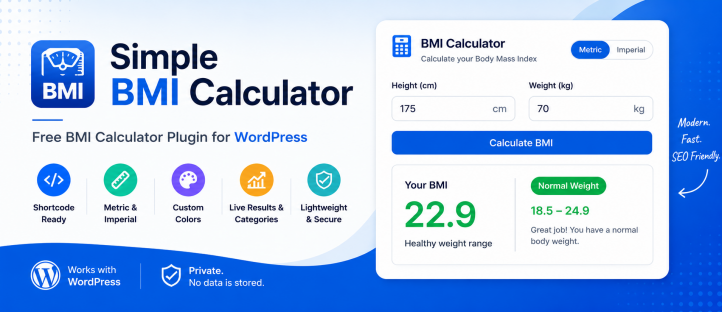
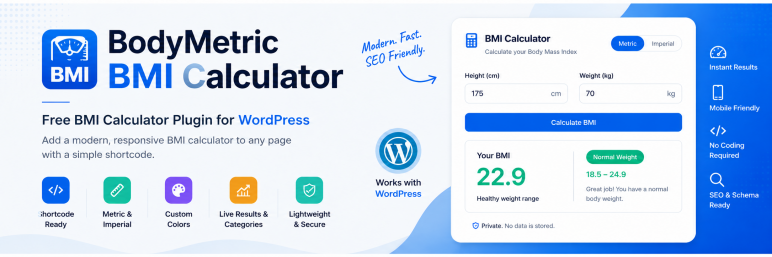
rename plugin

diff --git a/trunk/assets/js/bodymetric-bmi-calculator.js b/trunk/assets/js/bodymetric-bmi-calculator.js
@@ -1,7 +1,7 @@
 ( function () {
 	'use strict';
 
-	var config = window.sbcCalculatorData || {};
+	var config = window.bodybmcaData || {};
 	var i18n = config.i18n || {};
 
 	function parseNumber( value ) {

diff --git a/trunk/bodymetric-bmi-calculator.php b/trunk/bodymetric-bmi-calculator.php
@@ -20,33 +20,34 @@ if ( ! defined( 'ABSPATH' ) ) {
 	exit;
 }
 
-define( 'SBC_VERSION', '1.2.0' );
-define( 'SBC_PLUGIN_FILE', __FILE__ );
-define( 'SBC_PLUGIN_DIR', plugin_dir_path( __FILE__ ) );
-define( 'SBC_PLUGIN_URL', plugin_dir_url( __FILE__ ) );
+define( 'BODYBMCA_VERSION', '1.2.0' );
+define( 'BODYBMCA_PLUGIN_FILE', __FILE__ );
+define( 'BODYBMCA_PLUGIN_DIR', plugin_dir_path( __FILE__ ) );
+define( 'BODYBMCA_PLUGIN_URL', plugin_dir_url( __FILE__ ) );
+define( 'BODYBMCA_TEXT_DOMAIN', 'bodymetric-bmi-calculator' );
 
-require_once SBC_PLUGIN_DIR . 'includes/class-sbc-assets.php';
-require_once SBC_PLUGIN_DIR . 'includes/class-sbc-settings.php';
-require_once SBC_PLUGIN_DIR . 'includes/class-sbc-schema.php';
-require_once SBC_PLUGIN_DIR . 'includes/class-sbc-shortcode.php';
-require_once SBC_PLUGIN_DIR . 'includes/class-sbc-plugin.php';
+require_once BODYBMCA_PLUGIN_DIR . 'includes/class-bodybmca-assets.php';
+require_once BODYBMCA_PLUGIN_DIR . 'includes/class-bodybmca-settings.php';
+require_once BODYBMCA_PLUGIN_DIR . 'includes/class-bodybmca-schema.php';
+require_once BODYBMCA_PLUGIN_DIR . 'includes/class-bodybmca-shortcode.php';
+require_once BODYBMCA_PLUGIN_DIR . 'includes/class-bodybmca-plugin.php';
 
 /**
  * Placeholder premium check for future expansion.
  *
  * @return bool
  */
-function sbc_is_premium() {
-	return (bool) apply_filters( 'sbc_is_premium', false );
+function bodybmca_is_premium() {
+	return (bool) apply_filters( 'bodybmca_is_premium', false );
 }
 
 /**
  * Bootstrap the plugin.
  *
- * @return SBC_Plugin
+ * @return BODYBMCA_Plugin
  */
-function sbc_init_plugin() {
-	return SBC_Plugin::get_instance();
+function bodybmca_init_plugin() {
+	return BODYBMCA_Plugin::get_instance();
 }
 
-add_action( 'plugins_loaded', 'sbc_init_plugin' );
+add_action( 'plugins_loaded', 'bodybmca_init_plugin' );

diff --git a/trunk/uninstall.php b/trunk/uninstall.php
@@ -9,5 +9,6 @@ if ( ! defined( 'WP_UNINSTALL_PLUGIN' ) ) {
 	exit;
 }
 
+delete_option( 'bodybmca_options' );
 delete_option( 'bodymetric_bmi_calculator_options' );
 delete_option( 'simple_bmi_calculator_options' );

diff --git a/README.md b/README.md
@@ -55,7 +55,7 @@ Landing page: [bodymetriccalculator.com/bmi-calculator](https://bodymetriccalcul
 1. Download or clone this repository.
 2. Copy the `bodymetric-bmi-calculator` folder to `wp-content/plugins/`.
 3. Activate the plugin from `WordPress Admin -> Plugins`.
-4. Add `[bmi_calculator]` to any post or page.
+4. Add `[bodybmca_bmi_calculator]` to any post or page.
 
 ### ZIP Upload
 
@@ -67,24 +67,33 @@ Landing page: [bodymetriccalculator.com/bmi-calculator](https://bodymetriccalcul
 
 ## Usage
 
-Use the main shortcode anywhere shortcodes are supported:
+Use the primary shortcode anywhere shortcodes are supported:
 
 ```shortcode
+[bodybmca_bmi_calculator]
 [bmi_calculator]
-[bmi_calculator unit="metric"]
-[bmi_calculator unit="imperial"]
-[bmi_calculator theme="minimal"]
-[bmi_calculator title="Check Your BMI"]
-[bmi_calculator primary_color="#2563eb"]
-[bmi_calculator show_credit="false"]
-[bmi_calculator show_schema="true"]
+[bodybmca_bmi_calculator unit="metric"]
+[bodybmca_bmi_calculator unit="imperial"]
+[bodybmca_bmi_calculator theme="minimal"]
+[bodybmca_bmi_calculator title="Check Your BMI"]
+[bodybmca_bmi_calculator primary_color="#2563eb"]
+[bodybmca_bmi_calculator show_credit="false"]
+[bodybmca_bmi_calculator show_schema="true"]
 ```
 
 ### Main Shortcode
 
 ```shortcode
+[bodybmca_bmi_calculator]
+```
+
+### Legacy Alias
+
+```shortcode
 [bmi_calculator]
 ```
+
+`[bmi_calculator]` remains available as a simple backward-compatible alias.
 
 ### Supported Options
 